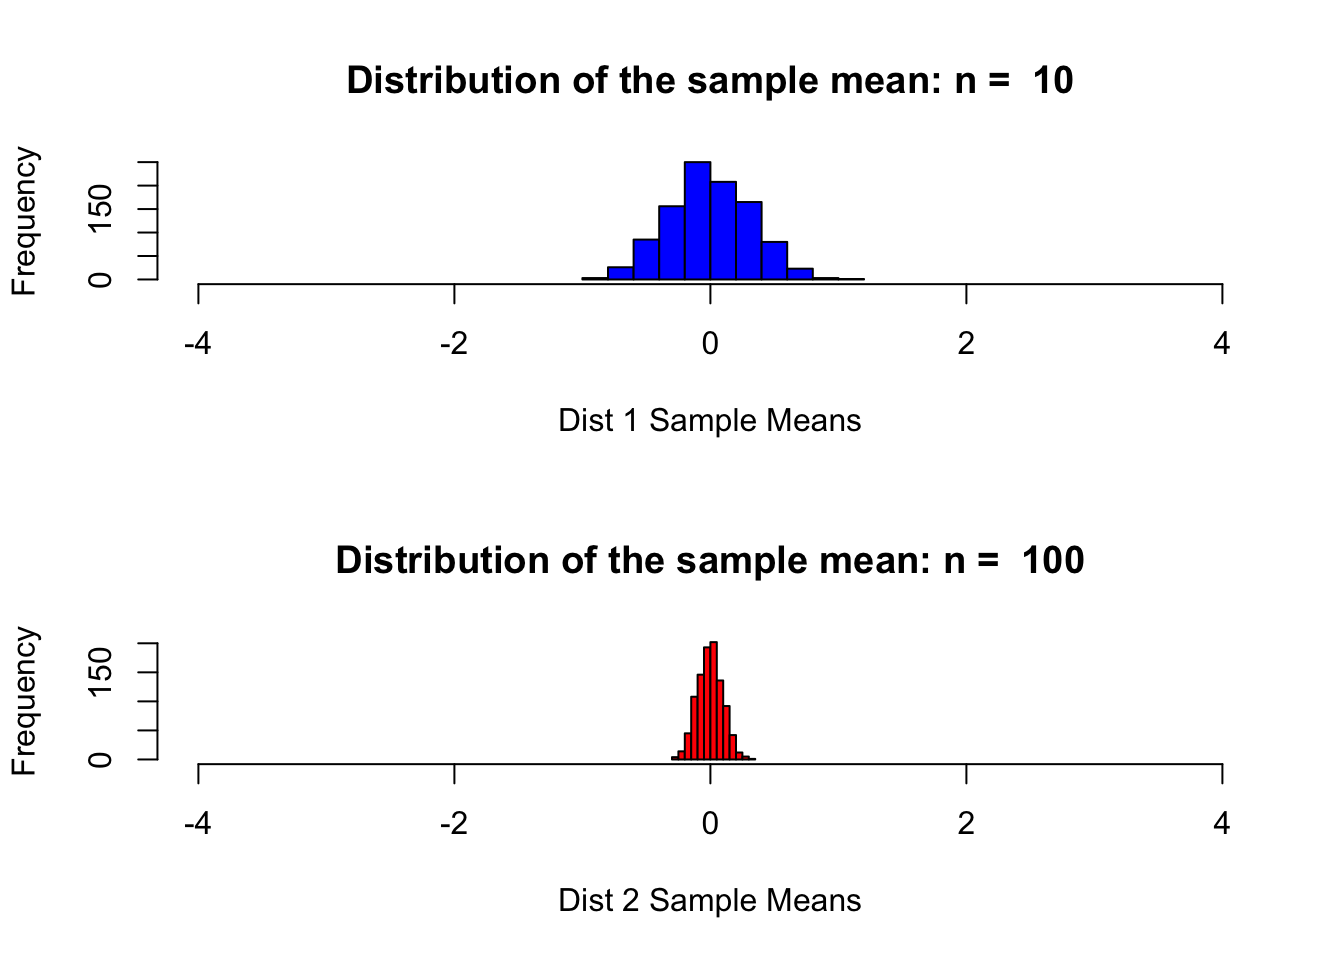
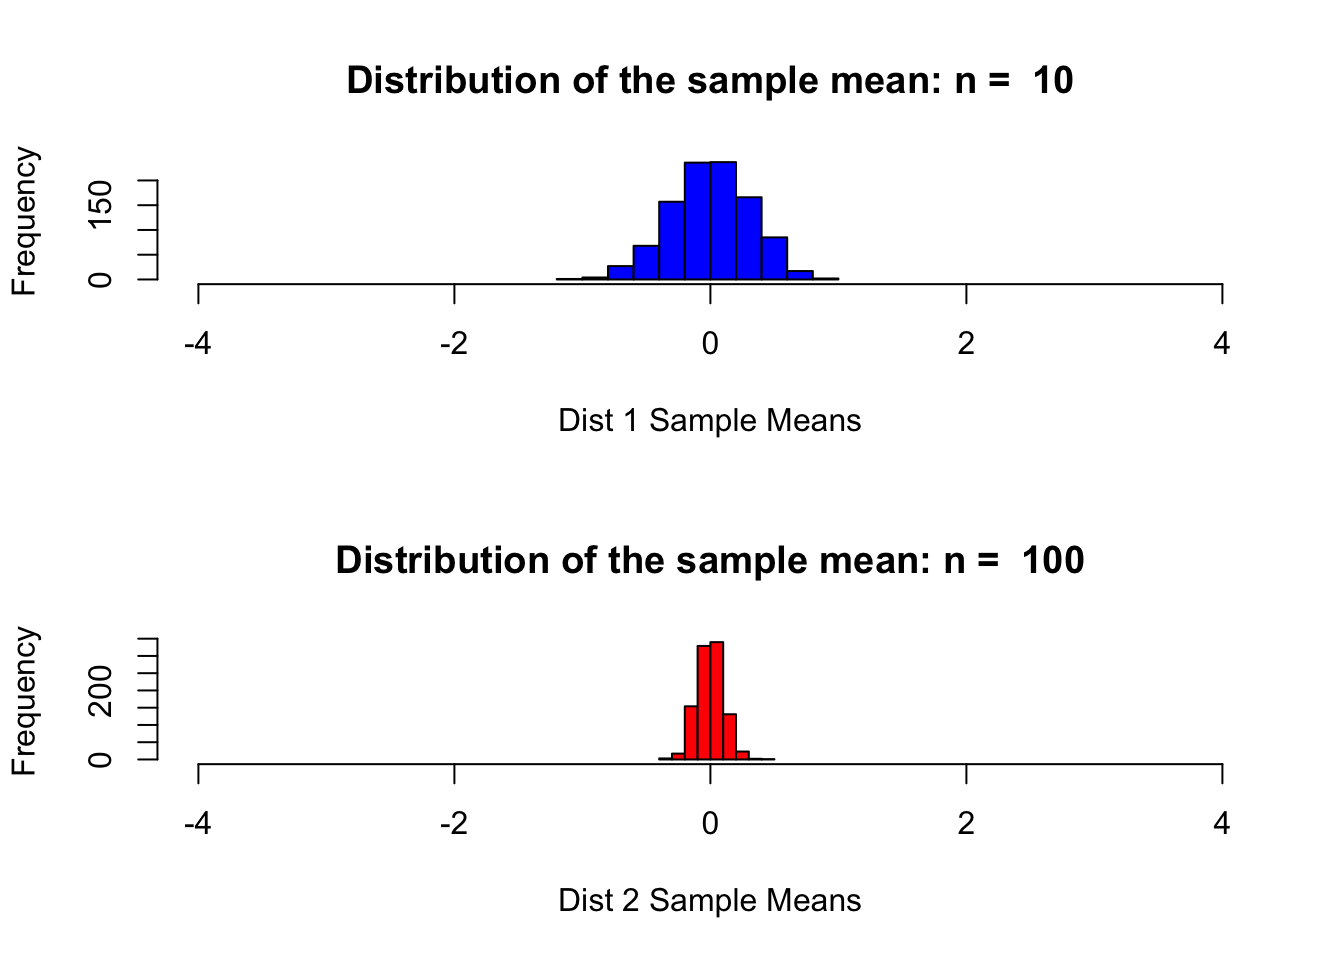
update

diff --git a/CLT.html b/CLT.html
@@ -344,14 +344,14 @@ hist(xbar_holder2, col = &quot;red&quot;, main = paste(&quot;Distribution of the
 <h2>Summary Statistics</h2>
 <pre class="r"><code>summary(xbar_holder1) #5 number summary and the mean</code></pre>
 <pre><code>##      Min.   1st Qu.    Median      Mean   3rd Qu.      Max. 
-## -0.909014 -0.228366 -0.019781 -0.004567  0.218412  1.084858</code></pre>
+## -1.135369 -0.206705  0.008189 -0.001273  0.222769  0.842879</code></pre>
 <pre class="r"><code>summary(xbar_holder2) #5 number summary and the mean</code></pre>
 <pre><code>##      Min.   1st Qu.    Median      Mean   3rd Qu.      Max. 
-## -0.286818 -0.071306 -0.001881 -0.003189  0.063201  0.319630</code></pre>
+## -0.379450 -0.071464 -0.000840 -0.001699  0.064749  0.402701</code></pre>
 <pre class="r"><code>sd(xbar_holder1) # standard deviation of dstribuion 1</code></pre>
-<pre><code>## [1] 0.3211651</code></pre>
+<pre><code>## [1] 0.3120569</code></pre>
 <pre class="r"><code>sd(xbar_holder2) #standard deviation of distribuion 2</code></pre>
-<pre><code>## [1] 0.09773108</code></pre>
+<pre><code>## [1] 0.1022011</code></pre>
 </div>
 </div>
 

diff --git a/index.html b/index.html
@@ -284,6 +284,9 @@ $(document).ready(function () {
 <li>
   <a href="https://hnguye01.github.io/Pre01.html">Beer Study</a>
 </li>
+<li>
+  <a href="https://hnguye01.shinyapps.io/OldFaithful/">Old Faithful App</a>
+</li>
       </ul>
       <ul class="nav navbar-nav navbar-right">
         
